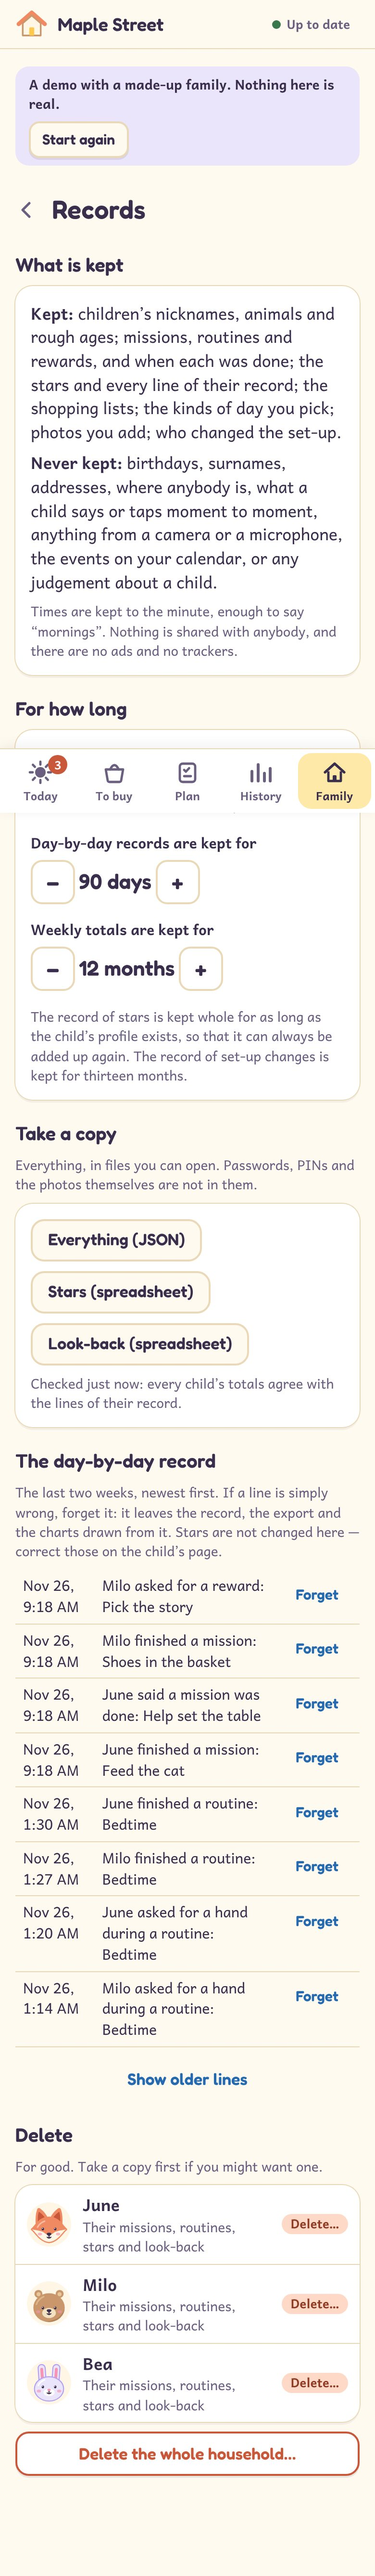
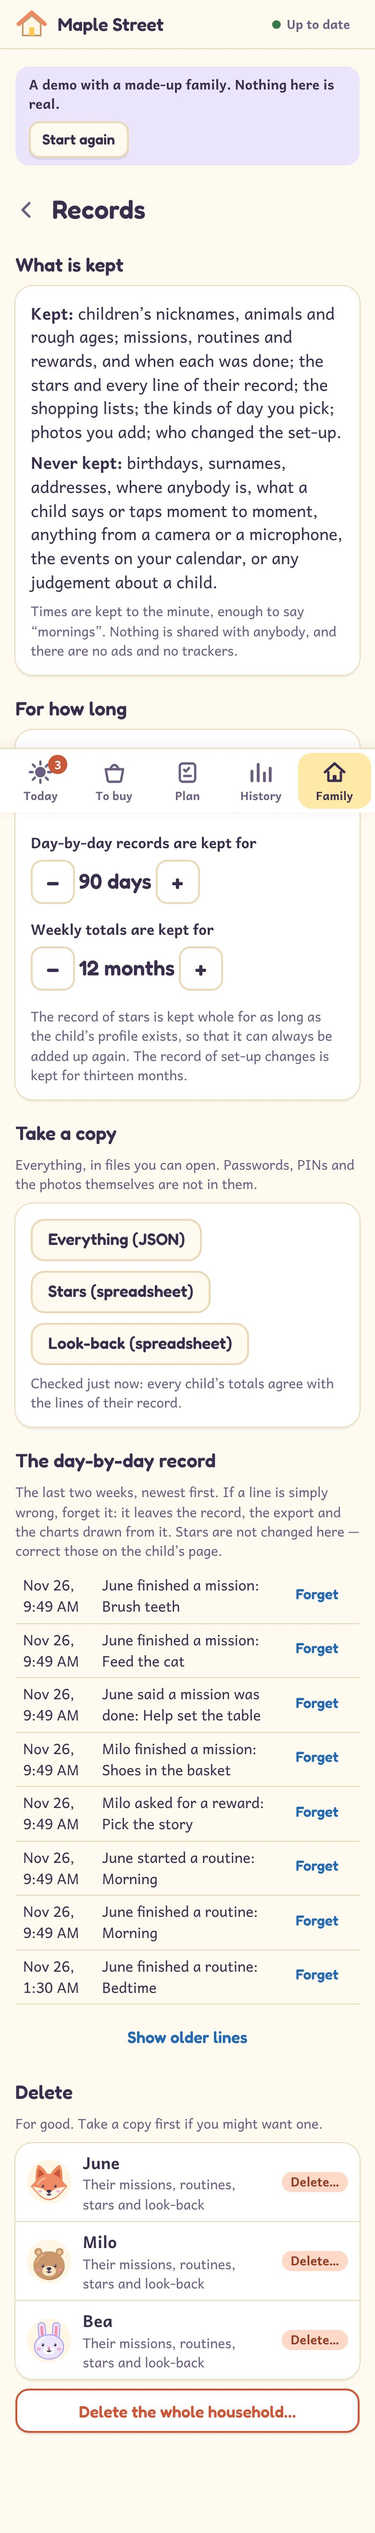
Documents and pictures: the counts after the last tick's test
491 unit and integration tests and 284 on PostgreSQL; the finished routine and the Records page
pictured as they now are.

Claude-Session: https://claude.ai/code/session_01VVY67Ng4fdppz1j19ZxXTd

Changed region(s): [[0.0308, 0.0312, 0.9538, 0.9662], [0.8, 0.2805, 0.9846, 0.3428], [0.8923, 0.4363, 0.9231, 0.4675]]

diff --git a/docs/TEST_RESULTS.md b/docs/TEST_RESULTS.md
@@ -11,8 +11,8 @@ those are listed at the end.
 | What | Command | Result |
 | --- | --- | --- |
 | Formatting, lint, types | `npm run format:check`, `npm run lint`, `npm run typecheck` | Clean |
-| Unit and integration tests, built-in database | `npm test` | **490 passed**, 1 skipped (38 files) |
-| Server tests on real PostgreSQL 16 | `npm run test:pg` | **283 passed** (24 files), including backup and restore. An earlier state of the suite was also run on a brand-new server, which is how the first problem below was reproduced |
+| Unit and integration tests, built-in database | `npm test` | **491 passed**, 1 skipped (38 files) |
+| Server tests on real PostgreSQL 16 | `npm run test:pg` | **284 passed** (24 files), including backup and restore. An earlier state of the suite was also run on a brand-new server, which is how the first problem below was reproduced |
 | Production build | `npm run build` | Built: 1.4 MB on disk, 44 files in the offline shell |
 | Browser tests, four screen sizes, Chromium | `npm run test:e2e` | **38 passed**, 1 skipped (needs a built app) |
 | The skipped one, against the built app | `E2E_SERVER=production npx playwright test e2e/offline.spec.ts` | **2 passed** (and 6 of 6 when repeated three times, earlier) |
@@ -37,7 +37,7 @@ holds, and a network that reaches nothing — and talks to it over HTTP as phone
 | `tests/server/isolation.test.ts` | 10 | One household can never read or change another's; the session decides, never who is "selected" |
 | `tests/server/quest.test.ts` | 19 | Missions: schedules, time zones and clock changes, one award however often a tick is tapped, approval, "not yet", undo, order |
 | `tests/server/bank.test.ts` | 15 | Stars: an append-only ledger, rewards asked for at the same moment, refunds, corrections, lifetime never lost by spending |
-| `tests/server/routines.test.ts` | 10 | Steps in order, "together", pausing, no stars unless the family chose them |
+| `tests/server/routines.test.ts` | 11 | Steps in order, "together", pausing, no stars unless the family chose them, the last tick taken back without a routine ever counting as finished twice |
 | `tests/server/shopping.test.ts` | 17 | Two phones and a wall on one list, a child's request, edits to different fields both kept, an offline queue sent twice; the favourites shelf |
 | `tests/server/suggestions.test.ts` | 5 | "You often buy" |
 | `tests/server/shortcuts.test.ts` | 14 | The Siri key: narrow, revocable, rate-limited, useless for anything else |
@@ -147,7 +147,8 @@ Found while closing the audit's last gaps (pull request #4):
 - **Finishing a routine did not feel finished.** The moment the last step was ticked, the wall went back to the
   list of routines and the guide asked "What shall we do?" over the top of "All done! Well done." The panel that
   says "All done!" existed and was never shown. Found by the first browser test to walk a routine to its end;
-  the finished routine now stays in front until the child taps.
+  the finished routine now stays in front until the child taps, and its last tick can be taken back like any
+  other — with the look-back no longer saying the routine was finished until it is finished again.
 - **A tap would have failed at a plain http address on the home network.** Ids were made with a browser
   function that is withheld from pages not fetched securely — which includes a wall tried at `http://192.168.…`
   before the house is hosted. Checked in a browser at a network address after the fix: no secure context, a

diff --git a/docs/PROGRESS.md b/docs/PROGRESS.md
@@ -28,7 +28,7 @@ and each needs something only the family has.
 | A child who cannot read can use it | **Verified** by tests that walk the whole journey, and a routine from first step to "All done!", by pictures and control names alone. **No real child has tried it** | `e2e/non-reader.spec.ts`, `e2e/child-day.spec.ts`; checklist section I |
 | Missions (QUEST) | **Verified** | `tests/server/quest.test.ts` (19), `e2e/approval.spec.ts` |
 | Stars and rewards (BANK) | **Verified** | `tests/server/bank.test.ts` (15), `e2e/rewards.spec.ts` |
-| Routines | **Verified**, on the server and on the wall | `tests/server/routines.test.ts` (10), `e2e/child-day.spec.ts` |
+| Routines | **Verified**, on the server and on the wall | `tests/server/routines.test.ts` (11), `e2e/child-day.spec.ts` |
 | The shopping list (TO BUY), with its favourites shelf | **Verified**. The Siri Shortcut is **hardware-pending** (its server side is verified) | `tests/server/shopping.test.ts` (17), `shortcuts.test.ts`, `e2e/shopping.spec.ts` |
 | The Training Academy | Opening it: **verified** up to the address it would go to. Bringing progress in: **verified** on the server. Coming home again from the Academy: **hardware-pending**. Live two-way sync: **not built** (needs changes to the Academy and the owner's say-so) | `tests/server/academy.test.ts`, `docs/integrations/ACADEMY.md` |
 | The calendar | The display's own Calendar Mode is the calendar (**hardware-pending**). HOMEBASE shows parent-chosen kinds of day (**verified**). A calendar feed inside HOMEBASE: **not built** (the brief calls it optional) | `docs/INTEGRATIONS.md` |
@@ -51,7 +51,7 @@ Every requirement of the brief, one row each: [`TRACEABILITY.md`](TRACEABILITY.m
 
 ## The evidence
 
-- **Tests:** [`TEST_RESULTS.md`](TEST_RESULTS.md) — 490 unit and integration tests; 283 server tests again on
+- **Tests:** [`TEST_RESULTS.md`](TEST_RESULTS.md) — 491 unit and integration tests; 284 server tests again on
   PostgreSQL; 39 browser tests at four sizes in Chromium, and the 12 of the phone's side again in WebKit; the
   deployment check; the wall measured.
 - **Continuous integration:** `.github/workflows/ci.yml` runs all of it on every pull request, in five jobs.

diff --git a/docs/TRACEABILITY.md b/docs/TRACEABILITY.md
@@ -17,7 +17,7 @@ What was run for the refresh: `npx vitest run` at `ef906d2` (33 files, 453 passe
 one is the backup test, which needs PostgreSQL) and `tests/server/backup.test.ts` against a local PostgreSQL at
 `9d866c0` (passed). At `5479df1`: `tsc --noEmit` and `eslint .` clean, and a search of tracked files for API keys
 and tokens (none). For the rows changed by pull request #4, everything was run again at its head: `npx vitest
-run` (38 files, **490 passed, 1 skipped**), the server tests on PostgreSQL (283 passed), the Playwright browser
+run` (38 files, **491 passed, 1 skipped**), the server tests on PostgreSQL (284 passed), the Playwright browser
 tests (38 passed, 1 skipped under the dev server; the skipped offline reload passes against a production
 build), and on GitHub the same plus the phone's tests in WebKit. Results are recorded in
 `docs/TEST_RESULTS.md`.
